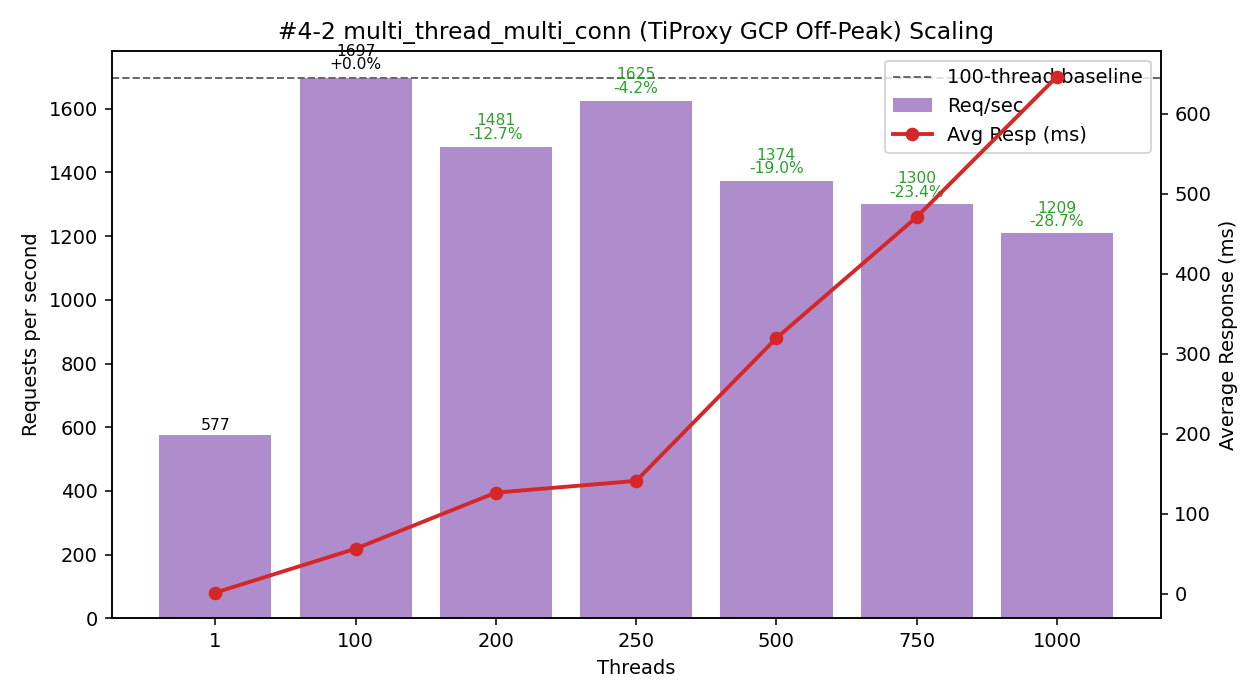
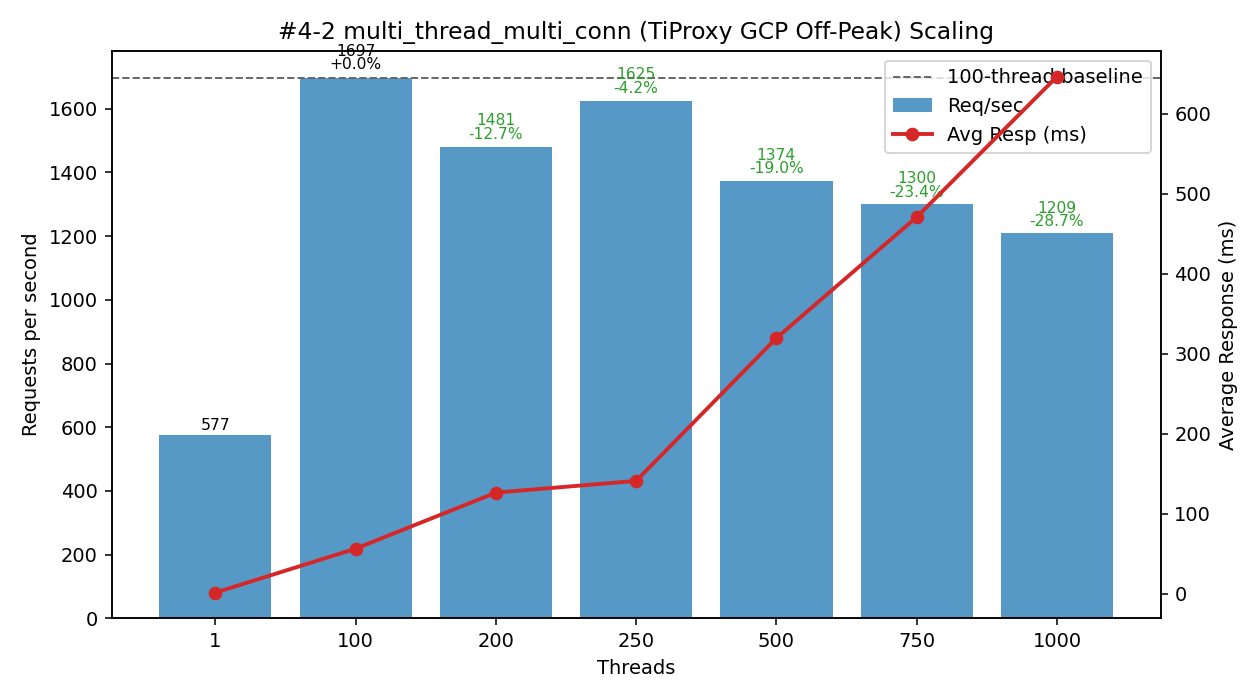
update

diff --git a/tidb/#4-2.py b/tidb/#4-2.py
@@ -85,7 +85,7 @@ def make_plot(data):
     avg_ms = [r[2] for r in data]
 
     fig, ax1 = plt.subplots(figsize=(9, 5))
-    bars = ax1.bar([str(t) for t in threads], rps, color="#9467bd", alpha=0.75, label="Req/sec")
+    bars = ax1.bar([str(t) for t in threads], rps, color="#1f77b4", alpha=0.75, label="Req/sec")
     ax1.set_xlabel("Threads")
     ax1.set_ylabel("Requests per second")
     ax1.set_title("#4-2 multi_thread_multi_conn (TiProxy GCP Off-Peak) Scaling")
